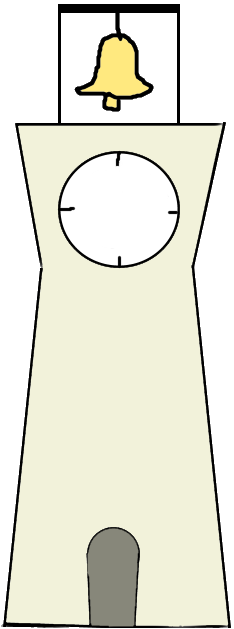
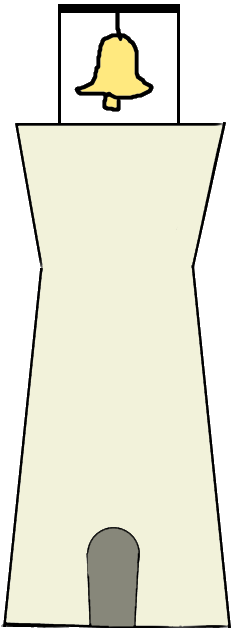
Added croissant, spruced up clock tower

Changed region(s): [[0.2393, 0.2417, 0.7778, 0.4531]]

diff --git a/Game.js b/Game.js
@@ -37,7 +37,7 @@ function preload ()
     this.load.image('background', 'assets/background.png');
     this.load.image('croissant', 'assets/cat.png');
     this.load.image('walker', 'assets/walker1.png');
-    this.load.image('clocktower', 'assets/clocktower1.png');
+    this.load.image('clocktower', 'assets/clocktower_base.png');
     this.load.spritesheet('clockface', 
     'assets/clockface_map.png',
     { frameWidth: 123, frameHeight: 119 }
